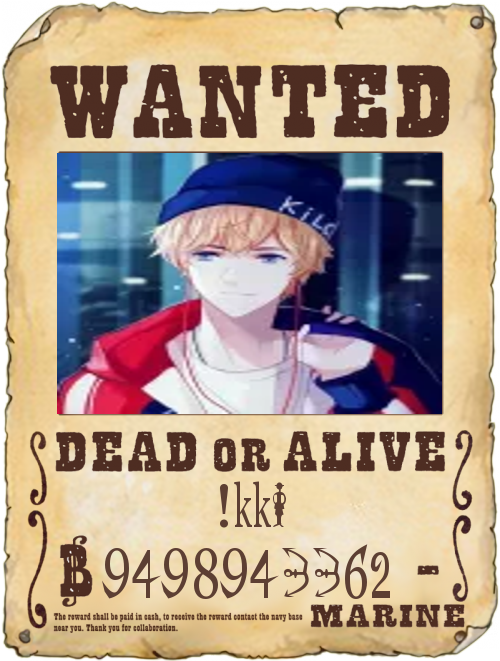
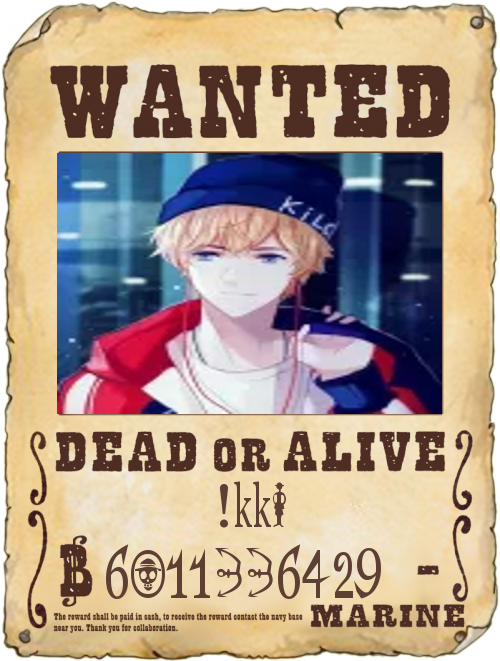
jojo

Changed region(s): [[0.21, 0.8169, 0.78, 0.9077]]

diff --git a/my_bot.py b/my_bot.py
@@ -17,7 +17,8 @@ from mal import *
 import asyncio
 from waifu import waifupics, waifuname, waifuseries
 
-os.chdir(r".vscode")
+
+os.chdir(r"G:\bot\stella\.vscode")#G:\bot\stella\.vscode
 # client (our bot)
 #prefix...................]
 intents = discord.Intents.all()
@@ -80,7 +81,7 @@ async def version(context):
 
 @client.command(name='Bot')   
 async def Bot(context):
-    helpembed = discord.Embed (title='Hi', description='Aur bhai kaisa laga bot',color=0x00ebff) 
+    helpembed = discord.Embed (title='Hi', description='Its me, Stela',color=0x00ebff) 
     await context.author.send(embed=helpembed) 
 
 #moderation.................................................................................... 
@@ -420,7 +421,7 @@ async def hug(context,member: discord.Member, *,gifmsg=None):
 async def wanted(ctx,user:discord.Member=None):
     if user==None:
         user = ctx.author
-    resp=requests.get("https://cdn.discordapp.com/attachments/782562061812891648/784300226537324564/Wanted.png") 
+    resp=requests.get("https://i.imgur.com/jNJBoeJ.png") 
     
     wanted = Image.open(BytesIO(resp.content))
     asset = user.avatar_url_as(size=128)
@@ -496,8 +497,61 @@ async def instagram(ctx,user:typing.Optional[discord.Member]=None, *,caption= No
     if len(text1)>18:
         await ctx.send("Hey! Your name is longer than 18 Characters \n**Tip**: Keep it shorter :) ")    
     await ctx.send(file=discord.File("instagram.png"))
+@client.command(name='chika', aliases=['Chika'])
+async def chika(ctx, *,caption): 
+    resp=requests.get("https://i.imgur.com/ZlnspzF.png") #chika 
+    post = Image.open(BytesIO(resp.content)) 
+    #post = Image.open("chika.png") 
+    font = ImageFont.truetype("ARIAL.TTF", 30)
+    line1, line2, line3, line4 = caption.split(",") 
+    W = 473
+    H11 = 15
+    H12 = 57
+    H13 = 101
+    H14 = 143
+    draw = ImageDraw.Draw(post)
+    line1 = textwrap.wrap(line1,13)
+    w11, h11 = draw.textsize(line1[0],font=font)
+    
+    
+    
+    
+    
+    draw.text(((W-w11/2, H11-h11/2)),line1[0],(0,0,0),font=font,align="center",)
+    if len(line1[1])>0:
+        w12, h12 = draw.textsize(line1[1],font=font)
+        draw.text(((W-w12/2, H12-h12/2)),line1[1],(0,0,0),font=font,align="center",)
+    if len(line1[2])>0:
+        w13, h13 = draw.textsize(line1[2],font=font)
+        draw.text(((W-w13/2, H13-h13/2)),line1[2],(0,0,0),font=font,align="center",)
+    if len(line1[3])>0:
+        w14, h14 = draw.textsize(line1[3],font=font)
+        draw.text(((W-w14/2, H14-h14/2)),line1[3],(0,0,0),font=font,align="center",)        
 
 
+    
+    print(line2)
+    print(line3)
+    print(line4)
+    
+    
+    post.save("chika.png")#185
+    await ctx.send(file=discord.File("chika.png"))
+#jojo
+@client.command(name='jojo', aliases=['Jojo'])
+async def jojo(ctx,user:discord.Member=None ): 
+    if user==None:
+        user = ctx.author
+    resp=requests.get("https://i.imgur.com/yrUJdsK.png")  
+    post = Image.open(BytesIO(resp.content)) 
+    asset = user.avatar_url_as(size=128)
+    data = BytesIO(await asset.read())   
+    pfp = Image.open(data)
+    pfp = pfp.resize((177,240)) 
+    #pfp = pfp.rotate(10)
+    post.paste(pfp,(94,96))
+    post.save("jojo.png")
+    await ctx.send(file=discord.File("jojo.png"))
 #message................
 
 #dm
@@ -732,7 +786,7 @@ async def help(ctx):
     em.set_author(name = "**Help/Command List**",icon_url=f"{ctx.message.author.avatar_url}")
     em.add_field(name="🛡 Moderation",value="`kick` `ban` `clear`",inline=False)
     em.add_field(name="🤗 Roleplay",value="`wave` `nom` `blush` `bonk` `cry` `dance` `hug` `kill` `laugh` `pat` `poke` `pout` `rage` `slap` `sleep` `smile` `smug` `stare` `think` ",inline=False)
-    em.add_field(name="😆 Meme Generation",value="`wanted` `insta` `chika`",inline=False)
+    em.add_field(name="😆 Meme Generation",value="`wanted` `insta` `jojo`",inline=False)
     #em.add_field(name="💰 Economy",value="`withdraw` `slot` `shop` `sell` `rob` `leaderboard` `kira` `inventory` `give` `deposit` `buy` `beg` `balance` ",inline=False)
     em.add_field(name="🥳 Fun",value="`waifu` `say` `spoiler` `propose` `imposter` ",inline=False)
     em.add_field(name="🔧 Utility",value="`anime` `manga` `version` `dm` `avatar` `Bot`",inline=False)
